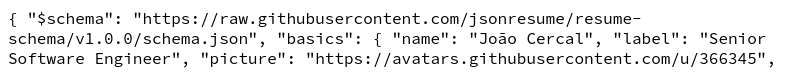
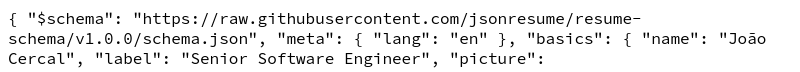
add meta lang

Changed region(s): [[0.0, 0.7222, 0.9688, 0.9444], [0.3438, 0.4444, 0.9688, 0.6667]]

diff --git a/theme/index.js b/theme/index.js
@@ -3,7 +3,7 @@ const path = require('path')
 const sass = require('sass')
 const fs = require('fs')
 
-exports.render = ({ basics, skills, work }) => {
+exports.render = ({ meta, basics, skills, work }) => {
 	Handlebars.registerHelper('style', () => new Handlebars.SafeString(
 		sass
 			.compile(path.join(__dirname, 'style.scss'))
@@ -52,5 +52,5 @@ exports.render = ({ basics, skills, work }) => {
 	)
 
 	const template = Handlebars.compile(fs.readFileSync(path.join(__dirname, 'template.hbs'), 'utf8'))
-	return template({ basics, skills, work })
+	return template({ meta, basics, skills, work })
 }
